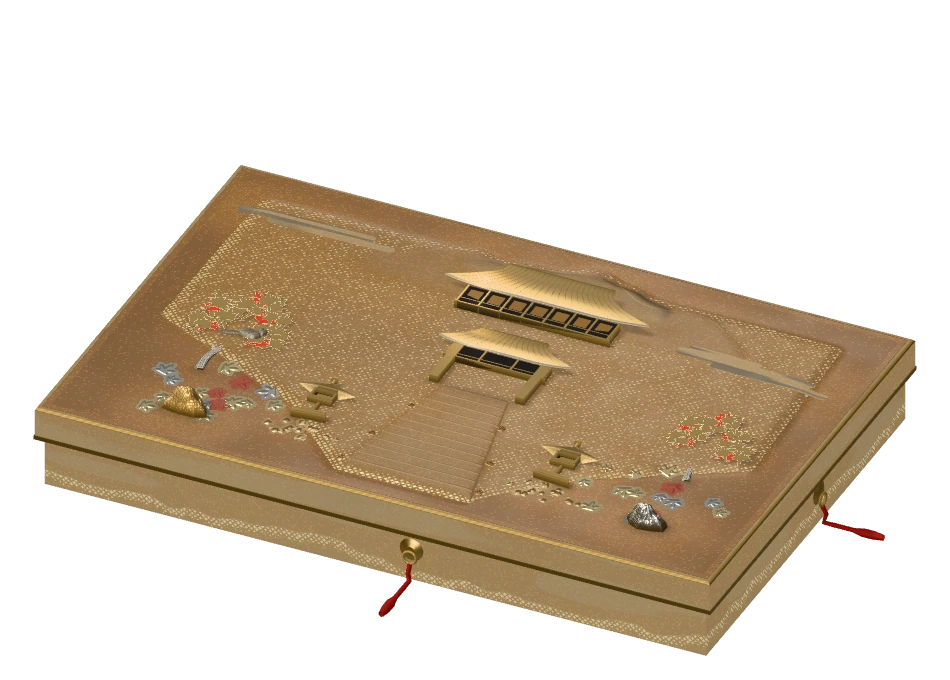
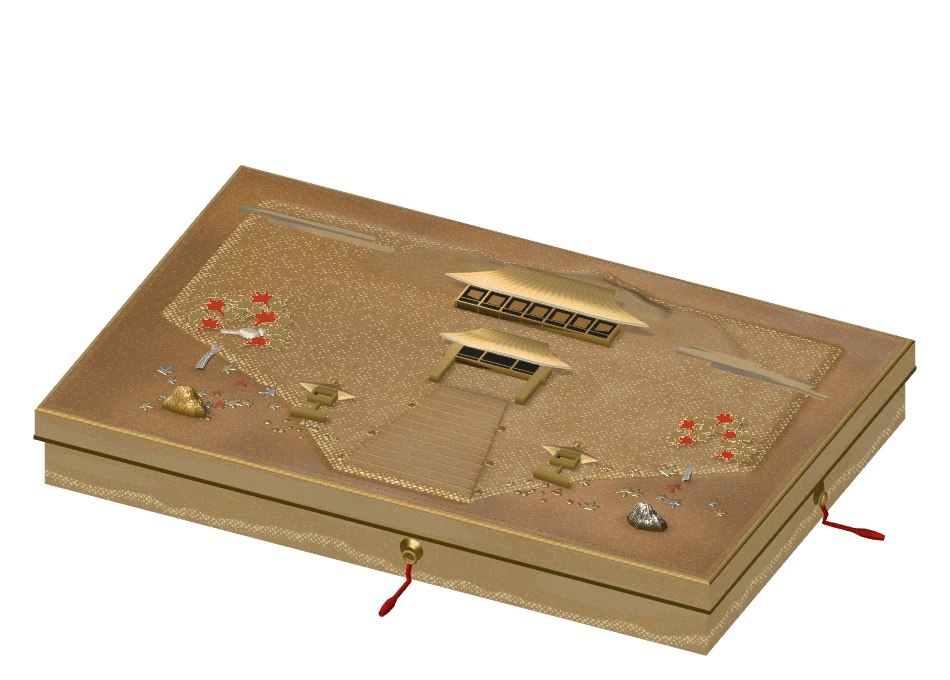
fix(plate): flat inlays are exactly their own outline, no pad of material round them
User review (screenshot of Yamashina): each fallen leaf sat in a ring that looked
like melted wax. Inlays owned a 4-unit margin meant for parts that move, and the
lid painted the whole margin in the part's material.
- Scattered inlays, the moon's wake and paw prints own half a unit (reach .5).
- The lid cuts cut-foil, sheet and coral to the drawn outline; outside it is ground.
- Coral leaves on a tree lie on top of their neighbours instead of showing as
  slivers; coral is deeper and less glossy.
- Cut silver (the fox's body) joins silver and sheet silver: it stays pale. The
  feet of pieces are no darker than before ageing (a low piece is all foot).
- Fallback pictures reshot.

diff --git a/src/studies/toji/plate/three-pack.js b/src/studies/toji/plate/three-pack.js
@@ -18,21 +18,22 @@ export const MATERIALS = {
   [MAT.gyobu]: {name: 'gyobu', aged: {color: '#bfa468', roughness: .55}, color: '#c29a46', paint: '#8a6a2c', metalness: .85, roughness: .45, clearcoat: .5, clearcoatRoughness: .1, flake: .7},
   [MAT.gold]: {name: 'gold', aged: {color: '#cdb98e', roughness: .55, clearcoat: .1}, color: '#cf9e48', paint: '#d6a640', metalness: 1, roughness: .38, clearcoat: .3, clearcoatRoughness: .1, flake: .22},
   // T3: railings read dull grey under the grey room; a whiter, smoother silver with a thin coat keeps them silver.
-  // Age: silver and sheet silver stand for white things (sand, a fox, blossom, an eave's edge), so they dull but stay
-  // pale. The dark, sulphided silver is the shade of rocks, trunks and banks, which the shaders lay themselves.
-  [MAT.silver]: {name: 'silver', aged: {color: '#c0bbae', roughness: .4, metalness: .72, clearcoat: .1}, color: '#e6e8e4', paint: '#d8dad6', metalness: 1, roughness: .2, clearcoat: .3, clearcoatRoughness: .08, flake: .3},
+  // Age: silver and sheet silver stand for white things (sand, a fox, blossom, an eave's edge), so they dull a little but stay
+  // pale and keep their polish (a rougher silver only mirrors the dim room and goes dark);
+  // envMapIntensity makes up for the quieter day an aged box sits in, which would otherwise grey them. The dark, sulphided silver is the shade of rocks, trunks and banks, which the shaders lay themselves.
+  [MAT.silver]: {name: 'silver', aged: {color: '#d9d6cc', roughness: .27, metalness: .7, clearcoat: .2, envMapIntensity: 1.4}, envMapIntensity: 1, color: '#e6e8e4', paint: '#d8dad6', metalness: 1, roughness: .2, clearcoat: .3, clearcoatRoughness: .08, flake: .3},
   [MAT.kirikane]: {name: 'kirikane', aged: {color: '#dcc892', roughness: .52}, color: '#f2c65e', paint: '#e0b650', metalness: .88, roughness: .45, clearcoat: 0, clearcoatRoughness: 0, flake: .12},
-  [MAT.kirigin]: {name: 'kirigin', aged: {color: '#8d867a', roughness: .5}, color: '#d8dbd6', paint: '#bfc0b8', metalness: .88, roughness: .45, clearcoat: 0, clearcoatRoughness: 0, flake: .12},
+  [MAT.kirigin]: {name: 'kirigin', aged: {color: '#d0ccc1', roughness: .45, metalness: .66, envMapIntensity: 1.4}, envMapIntensity: 1, color: '#d8dbd6', paint: '#bfc0b8', metalness: .88, roughness: .45, clearcoat: 0, clearcoatRoughness: 0, flake: .12},
   // T3: mother-of-pearl is pale with colour that shifts, not a teal paint: lighter base, wider film range.
   [MAT.aogai]: {name: 'aogai', color: '#8fbcb6', paint: '#9cc6c0', metalness: .2, roughness: .2, clearcoat: 1, clearcoatRoughness: .05, flake: 0, iridescence: 1, iridescenceIOR: 1.6, iridescenceThicknessRange: [250, 800]},
   [MAT.hyomonGold]: {name: 'hyomonGold', aged: {color: '#d6c294', roughness: .36}, color: '#e6b94e', paint: '#e2b24c', metalness: 1, roughness: .18, clearcoat: 0, clearcoatRoughness: 0, flake: .15},
-  [MAT.hyomonSilver]: {name: 'hyomonSilver', aged: {color: '#c8c3b6', roughness: .32, metalness: .66}, color: '#e0e2de', paint: '#d8d9d4', metalness: 1, roughness: .15, clearcoat: 0, clearcoatRoughness: 0, flake: .15},
+  [MAT.hyomonSilver]: {name: 'hyomonSilver', aged: {color: '#d6d3c8', roughness: .21, metalness: .66, envMapIntensity: 1.4}, envMapIntensity: 1, color: '#e0e2de', paint: '#d8d9d4', metalness: 1, roughness: .15, clearcoat: 0, clearcoatRoughness: 0, flake: .15},
   [MAT.water]: {name: 'water', color: '#2c4256', paint: '#2a3d50', metalness: .6, roughness: .12, clearcoat: 1, clearcoatRoughness: .02, flake: 0},
   // Body of a silver (kirigin) rock: the shader lays silver foil on it. Mist (kasumi) is baked, so it has no mesh material of its own.
   [MAT.muraSilver]: {name: 'muraSilver', rock: 'silver', color: '#d9b25a', paint: '#caa24a', metalness: .9, roughness: .3, clearcoat: 0, clearcoatRoughness: 0, flake: .2},
   [MAT.kasumi]: {name: 'kasumi', color: '#d9b25a', paint: '#caa24a', metalness: .9, roughness: .3, clearcoat: 0, clearcoatRoughness: 0, flake: .2},
   // Red coral, cut and polished: a soft sheen, no metal. It does not age.
-  [MAT.coral]: {name: 'coral', color: '#b9412d', paint: '#b0402e', metalness: 0, roughness: .42, clearcoat: .45, clearcoatRoughness: .2, flake: 0},
+  [MAT.coral]: {name: 'coral', color: '#a3341f', paint: '#b0402e', metalness: 0, roughness: .55, clearcoat: .25, clearcoatRoughness: .3, flake: 0},
   [MAT.lacquer]: {name: 'lacquer', color: '#0b0807', paint: '#1a1310', metalness: 0, roughness: .12, clearcoat: 1, clearcoatRoughness: .03, flake: 0},
   // T3: a paper window lit from inside is warm amber, not saturated orange.
   [MAT.lamp]: {name: 'lamp', color: '#2a1a0a', paint: '#f0b46a', metalness: 0, roughness: .6, clearcoat: 0, clearcoatRoughness: 0, flake: 0, emissive: '#f0b46a', glow: true},
@@ -287,8 +288,9 @@ export const PART_LIGHT_GLSL = `
 // Live-view stand-ins for what the path-traced reference shows (docs/agent-runs/2026-11-14-threert-reference.md):
 // L1 the pieces darken where they meet the ground; L2 faces turned down catch the gold ground's bounce.
 const float K_CONTACT_MIN=.45, K_CONTACT_H=10., K_BOUNCE=.8;
-// With age the foot is darker still and the ground's bounce is duller.
-const float K_AGE_CONTACT_MIN=.36, K_AGE_BOUNCE=.6;
+// With age the ground is darker, so it throws less light back up at the pieces. The foot is no darker than before:
+// a low piece (a fox, a lantern) is all foot, and went black when it was.
+const float K_AGE_CONTACT_MIN=.45, K_AGE_BOUNCE=.75;
 const vec3 K_BOUNCE_C=vec3(1.,.72,.36);
 const float K_WIN=.55; // soft window reflection intensity on upward-facing metallic parts
 const float K_WIN_SOFT=.35; // soft window reflection angular width (larger is wider)
@@ -671,6 +673,8 @@ if(abs(kp.x)>M_HALF.x||abs(kp.y)>M_HALF.y){
   float w=smoothstep(.02,.34,hs);
   float dens=.82+.22*mVnoise(kp*.02),kAmt=0.,wN=0.,wM=0.,wS=0.,bigD=0.,bigCell=6.6,bigSq=0.;
   vec3 tint=M_GOLD,f0=M_GOLD,c=vec3(0.);
+  // A flat inlay (cut foil, sheet, coral) is exactly its own outline: the plain ground runs right up to its edge.
+  float inlay=clamp((fine.g-.5)/max(fwidth(fine.g),.004)+.5,0.,1.);
   float dField=texture(uDens,mPuv(kp)).r;
   // Maki-bokashi: powder gathers toward things and thins in the open. On an old, darker ground the grading carries
   // further (M_AGE_BOKASHI times as strong at age 1): it is what joins a form to the ground it stands on.
@@ -686,19 +690,19 @@ if(abs(kp.x)>M_HALF.x||abs(kp.y)>M_HALF.y){
   else if(mat==5){wM=1.;c=M_PALE*line*(.12+.6*L)*mix(.5,1.,rise);}
   // Flat silver stands for white things (sand, petals): it dulls but stays pale. Raised and shaded silver goes dark.
   else if(mat==6){wM=1.;f0=mAgedSilver(M_SILVER,kp,.3);}
-  else if(mat==7){wM=1.;f0=M_GOLD*.9;rise=max(rise,.6);bigD=.4;bigCell=7.;bigSq=1.;c=M_PALE*line*(.22+.6*L);}
-  else if(mat==8){wM=1.;f0=mAgedSilver(mix(M_SILVER,M_GOLD,.25)*.9,kp,.9);rise=max(rise,.6);bigD=.4;bigCell=7.;bigSq=1.;c=M_SILVER*line*(.22+.6*L);}
+  else if(mat==7){wM=inlay;wN=1.-inlay;f0=M_GOLD*.9;rise=max(rise,.6);bigD=.4;bigCell=7.;bigSq=1.;c=M_PALE*line*(.22+.6*L)*inlay;}
+  else if(mat==8){wM=inlay;wN=1.-inlay;f0=mAgedSilver(mix(M_SILVER,M_GOLD,.25)*.9,kp,.35);rise=max(rise,.6);bigD=.4;bigCell=7.;bigSq=1.;c=M_SILVER*line*(.22+.6*L)*inlay;}
   else if(mat==9||mat==12){wN=1.;}
-  else if(mat==10){wS=1.;f0=M_PALE;c=M_PALE*glow*.5;}
-  else if(mat==11){wS=1.;f0=mAgedSilver(M_SILVER,kp,.3);}
+  else if(mat==10){wS=inlay;wN=1.-inlay;f0=M_PALE;c=M_PALE*glow*.5*inlay;}
+  else if(mat==11){wS=inlay;wN=1.-inlay;f0=mAgedSilver(M_SILVER,kp,.3);}
   else if(mat==13){wS=.82;wM=.18;f0=M_GOLD;tint=M_GOLD;}
-  else if(mat==17)c=M_CORAL*(.12+.70*L)+mCoat()*.55;
+  else if(mat==17){wN=1.-inlay;c=(M_CORAL*(.12+.70*L)+mCoat()*.55)*inlay;}
   else if(mat==14)c=M_LACQ*(.8+1.4*L)+mCoat()*2.2+M_GOLD*line*(.16+.80*L)*mix(.5,1.,rise);
   else c=mix(vec3(.10,.06,.025)*(.4+.5*L),vec3(1.,.62,.22)*1.15,glow)+M_LACQ;
   c+=wN*mNashiji(kp,dens,tint)+wM*mMetal(kp,f0,rise)+wS*mSheet(f0);
   vec3 bigG;float bigX=mFlake(M_R2*kp,bigCell,mix(.47,.30,bigSq),bigD,bigSq,.26,bigG);
   if(mat==7||mat==8){
-    vec3 foil=mat==7?M_PALE:mAgedSilver(M_SILVER,kp,.6);
+    vec3 foil=mat==7?M_PALE:mAgedSilver(M_SILVER,kp,.6);bigX*=inlay;bigG*=inlay;
     c=mix(c,mSheet(foil)+foil*(.10+.25*L)+foil*glow*(.45+.45*sin(kp.x*.31+kp.y*.17-uTime*9.)),bigX)+foil*bigG*.6;
   }else c=mix(c,tint*vec3(1.,.80,.44)*(.07+.74*L),bigX*.92)+tint*M_AMBER*bigG;
   if(kAmt>0.){

diff --git a/src/studies/toji/plate/vocab.js b/src/studies/toji/plate/vocab.js
@@ -174,9 +174,10 @@ function mapleLeaf(cx, cz, radius, turn) {
  * small it is: this is where a picture says what the solids are too round to say. Densest at the centre of the drift.
  * mats: [name, material, every]. The first is the body; each later one takes one piece in `every` (3 if not given),
  * the last listed winning where two fall on the same piece.
+ * An inlay owns its outline and half a unit round it (reach .5): the lid's material stops where the piece stops.
  */
 function scatter(id, cx, cz, rx, rz, count, seed, size, shape, mats) {
-  const r = rand(seed), parts = mats.map(([name, mat]) => part(`${id}-${name}`, KIND.still, 0, mat, [cx, cz]));
+  const r = rand(seed), parts = mats.map(([name, mat]) => part(`${id}-${name}`, KIND.still, 0, mat, [cx, cz], {reach: .5}));
   const clamp = (v, m) => Math.max(-m, Math.min(m, v));
   for (let i = 0; i < count; i++) {
     const a = r() * 6.283, q = Math.pow(r(), .7), R = size * (.75 + r() * .6), m = R + 2;
@@ -219,7 +220,7 @@ export function moon(id, cx, cz, radius, {ripples = 3} = {}) {
   const disc = part(id, KIND.still, 0, MAT.aogai, [cx, cz]);
   disc.fills.push({d: blob(cx, cz, radius, radius, 2, 0, 40), soft: 0, crisp: 1});
   if (!ripples) return [disc];
-  const wake = part(`${id}-wake`, KIND.still, 0, MAT.kirigin, [cx, cz + radius * 2]);
+  const wake = part(`${id}-wake`, KIND.still, 0, MAT.kirigin, [cx, cz + radius * 2], {reach: .5});
   for (let i = 0; i < ripples; i++) {
     const z = cz + radius * (1.5 + i * .62), half = radius * (.95 - i * .22), h = Math.max(1.4, radius * .1), dx = (i % 2 ? -1 : 1) * radius * .22;
     wake.fills.push({d: [[cx + dx - half, z - h], [cx + dx + half, z - h], [cx + dx + half * .8, z + h], [cx + dx - half * .8, z + h]], soft: 0, crisp: 1});
@@ -228,7 +229,7 @@ export function moon(id, cx, cz, radius, {ripples = 3} = {}) {
 }
 /** A fox's trail in cut silver: `points` are [x, z] along its way, the prints falling left and right of the line. */
 export function pawPrints(id, points, {size = 4.6} = {}) {
-  const p = part(id, KIND.still, 0, MAT.kirigin, points[0]);
+  const p = part(id, KIND.still, 0, MAT.kirigin, points[0], {reach: .5});
   points.forEach(([x, z], i) => {
     const [nx, nz] = points[Math.min(i + 1, points.length - 1)], [px, pz] = points[Math.max(i - 1, 0)], a = Math.atan2(nz - pz, nx - px);
     const side = i % 2 ? 1 : -1, ox = x - Math.sin(a) * side * size * .9, oz = z + Math.cos(a) * side * size * .9;

diff --git a/src/studies/toji/plate/trees.js b/src/studies/toji/plate/trees.js
@@ -21,7 +21,8 @@ export function stampedTree(id, x, z, h, lean, seed, species) {
   const r = rand(seed), dir = Math.sign(lean) || 1;
   const at = (dx, up) => [x + lean * up + dx * h, z - up * h];
   const limb = (pts, radii) => { const points = curve(pts, radii); p.limbs.push({points, bark: species === 'pine' ? 1 : 0, mat: species === 'cherry' ? MAT.gold : MAT.silver}); };
-  const stamp = (cell, px, pz, w, hh, turn, mat) => p.stamps.push({cell,x:px,z:pz,w,h:hh,turn,mat,offset:4.8+p.stamps.length*.035,relief:species==='pine'?.42:.24});
+  // A coral leaf lies on top of its neighbours, so it shows whole and not as slivers between them.
+  const stamp = (cell, px, pz, w, hh, turn, mat) => p.stamps.push({cell,x:px,z:pz,w,h:hh,turn,mat,offset:4.8+p.stamps.length*.035+(mat===MAT.coral?1.2:0),relief:species==='pine'?.42:.24});
   if (species === 'pine') {
     const spine = [at(0,0),at(-dir*.045,.18),at(dir*.04,.35),at(-dir*.055,.55),at(dir*.025,.75),at(0,.93)];
     limb(spine,[h*.065,h*.052,h*.042,h*.030,h*.021,.6]);

diff --git a/src/studies/toji/plate/three-renderer.js b/src/studies/toji/plate/three-renderer.js
@@ -319,6 +319,7 @@ normal = normalize(normal - kyotoGrad.x * vTreeTanX - kyotoGrad.y * vTreeTanZ);`
       side: THREE.DoubleSide, shadowSide: THREE.DoubleSide, ...extra,
     });
     if (spec.emissive) { m.emissive.set(spec.emissive); m.emissiveIntensity = 1; }
+    if (spec.envMapIntensity) m.envMapIntensity = spec.envMapIntensity;
     if (spec.iridescence) { m.iridescence = spec.iridescence; m.iridescenceIOR = spec.iridescenceIOR; m.iridescenceThicknessRange = [...spec.iridescenceThicknessRange]; }
     if (spec.flake) { m.normalMap = flake; m.normalScale.set(spec.flake, spec.flake); }
     return own(m);

diff --git a/docs/HANDOFF.md b/docs/HANDOFF.md
@@ -31,7 +31,7 @@ npm run dev -- --host 127.0.0.1 --strictPort
 |---|---|
 | 資料 | **792 筆**，`validate_data.js --strict` ERROR 0／WARN 0。2026-11-16 查完十一區所有食處（Tabelog）與「世界遺產」「國寶」標籤：退役 17 筆、改區 27 筆。「營業中」的依據是 Tabelog 英文版沒有閉店類標示，不是現場確認。寺社、商店等其他類型的事實查核還沒做 |
 | 首頁文庫 | 十一區文箱，每區一面蒔繪盤；單指盒面移光，長拖換函，雙指捏合／滾輪／快捷鍵放大（上限 3 倍），點蓋／Enter／空白鍵開蓋直入 `DetailView`；月光預設、閒置移光 |
-| 蒔繪盤 | **只有 three.js 一條管線**（`plate/three-renderer.js`＋`three-pack.js`）。舊的自寫 WebGL2 管線、2.5D 浮雕與 `?three=0` 已刪。狐、鳳凰、鶯、銀沙灘與向月台、石垣都是 three 網格，沒有平塗佔位。岩面是菱形切金（受光大而密、背光小而疏），銀岩是銀。地有疏密場（靠近物較密）。九區有依附小景（`plate/<區>.js` 裡帶 `on` 欄位的部件）。**銀的分工**（2026-11-16 對照德川美術館「初音蒔絵文台・硯箱（部分）」照片）：葉是金的樹，幹與枝是銀（背光氧化銀灰、受光淡銀、上面是切銀）；開銀花的櫻保留金幹；霞帶的金裡躺著細長的灰銀條。**作舊**（`claude/patina-1116`，未上線）：總開關 `?age=0..1`（預設 .85，0 是全新）；地是深棕橙的梨子地、圖的金比地淡、岩與樹幹的陰面是硫化銀的暖深灰；部件腳邊只有光影（環境光遮蔽與投影），沒有畫上去的汙；粉的疏密過渡加強；代表白色的銀（砂、狐、花）保持淡；紅珊瑚（`MAT.coral`）用在楓葉、梅心、「大」字 |
+| 蒔繪盤 | **只有 three.js 一條管線**（`plate/three-renderer.js`＋`three-pack.js`）。舊的自寫 WebGL2 管線、2.5D 浮雕與 `?three=0` 已刪。狐、鳳凰、鶯、銀沙灘與向月台、石垣都是 three 網格，沒有平塗佔位。岩面是菱形切金（受光大而密、背光小而疏），銀岩是銀。地有疏密場（靠近物較密）。九區有依附小景（`plate/<區>.js` 裡帶 `on` 欄位的部件）。**銀的分工**（2026-11-16 對照德川美術館「初音蒔絵文台・硯箱（部分）」照片）：葉是金的樹，幹與枝是銀（背光氧化銀灰、受光淡銀、上面是切銀）；開銀花的櫻保留金幹；霞帶的金裡躺著細長的灰銀條。**作舊**（`claude/patina-1116`，未上線）：總開關 `?age=0..1`（預設 .85，0 是全新）；地是深棕橙的梨子地、圖的金比地淡、岩與樹幹的陰面是硫化銀的暖深灰；部件腳邊只有光影（環境光遮蔽與投影），沒有畫上去的汙；粉的疏密過渡加強；銀、切銀、平文銀（砂、狐、花、腳印）保持淡；平嵌小物依輪廓裁切，邊界只留 0.5 單位（`reach: .5`），否則旁邊會多一圈材質；紅珊瑚（`MAT.coral`）用在楓葉、梅心、「大」字 |
 | 降級 | 沒有 WebGL2、three 載入或啟動失敗、context 遺失、或網址加 `?plate=static` 時，顯示預渲染的靜態圖（`plate/static/` 22 張 webp，十一區 × 日夜），換函與開蓋照常，盒面不動。**盤面有改動就要重拍**：`node scripts/plate-fallback-shots.mjs`（dev server 在 3000） |
 | 全站 UI | 手機優先、深色預設；暖日／月光、語系、減少動態全站共用（色票唯一來源 `src/theme.css`）。卡片有傾斜與柔光（觸控只有按壓回饋）、篩選後新卡片淡入；30 張以上的列表分批渲染（`src/lib/batch-render.ts`） |
 | 背景 | すやり霞＋和紙＋金箔／銀塵、障子格光與卓面光澤（`backdrop.js`）；十一區各自的紋樣與一行短句（`ward-art.js`，2026-11-16 改寫為「地標＋該區另一個重點」） |
